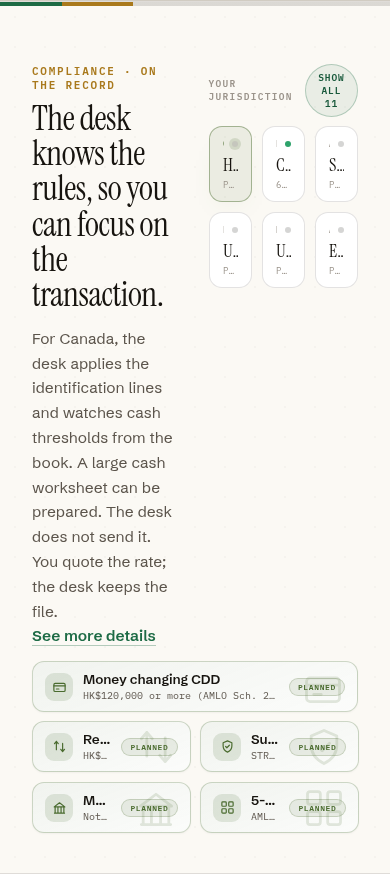
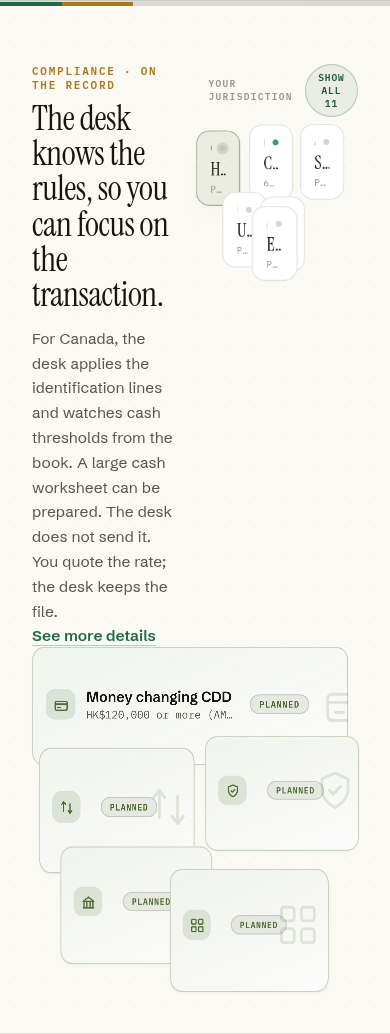
fix: state quote texting as conditional, and catch the missed claims
Home and FAQ now say a quote can be texted only when texting is set up.
The claims checker fails the old sentence and the four phrases the page
test already rejected. The phone worksheet line uses mute on the panel,
and a one-row jurisdiction pill keeps clear of the watermark.

diff --git a/web/index.html b/web/index.html
@@ -279,7 +279,7 @@
     <div style="text-align: center; max-width: 760px; margin: 0 auto;">
       <div style="font-family: var(--m); font-size: 11px; letter-spacing: 0.16em; text-transform: uppercase; color: var(--brass); font-weight: 600;">The website, powered by the desk</div>
       <h2 style="font-family: var(--serif); font-weight: 400; font-size: clamp(34px, 3.6vw, 52px); line-height: 1.04; letter-spacing: -0.015em; margin: 14px 0 0;">Your shop, open online.</h2>
-      <p style="font-size: 15.5px; line-height: 1.62; color: var(--mute); margin: 18px auto 0; max-width: 600px;">Your rate board lives on your own website, wired to the desk. Texting is not connected yet. People can find you online, check today's rates, reserve currency, and put money aside for pickup.</p>
+      <p style="font-size: 15.5px; line-height: 1.62; color: var(--mute); margin: 18px auto 0; max-width: 600px;">Your rate board lives on your own website, wired to the desk. A quote can be texted to the number given, only for that quote, when texting is set up. People can find you online, check today's rates, reserve currency, and put money aside for pickup.</p>
     </div>
 
     <div data-story-grid="true" style="display: grid; align-items: stretch; margin-top: clamp(18px,2.6vh,34px); grid-template-rows: var(--rowh, clamp(390px,46vh,462px)); grid-template-columns: var(--lcol, 1.08fr) var(--rcol, 0.92fr); gap: var(--sgap, 34px);">
@@ -404,7 +404,7 @@
                 </div>
               </sc-if>
               <sc-if value="{{ r.flat }}">
-                <div style="position: relative; height: 100%; display: flex; align-items: center; gap: 10px; padding: 9px 12px; box-sizing: border-box;">
+                <div style="{{ r.flatStyle }}">
                   <div aria-hidden="true" style="{{ r.wmStyle }}">{{ r.bigIcon }}</div>
                   <span style="{{ r.chipStyle }}">{{ r.icon }}</span>
                   <span style="flex: 1; min-width: 0;">
@@ -743,7 +743,7 @@ class Component extends DCLogic {
   featureDefs() {
     return [
       { icon:'board', slot:'gc-rate', src:'/web/photos/rate-board-storefront.jpg', ph:'Exchange shopfront at dusk with a lit rate board in the window', kicker:'SAMPLE FIGURE', value:'USD 1.3977', sub:'Sample rate on a sample board', chip:'Published', kind:'good', title:'Rate board', body:'Set your spread once. Your board prices every deal after that.' },
-      { icon:'chat', slot:'gc-sms', src:'/web/photos/sms-storefront.jpg', ph:'Customer reading a text on their phone outside an exchange shop, warm light', kicker:'BUSINESS TEXTING \u00B7 NOT CONNECTED', value:'Not sent', sub:'Texting is not connected yet', chip:'Not connected', kind:'good', title:'Business texting', body:'Texting is not connected yet. The desk does not send a message.' },
+      { icon:'chat', slot:'gc-sms', src:'/web/photos/sms-storefront.jpg', ph:'Customer reading a text on their phone outside an exchange shop, warm light', kicker:'QUOTE TEXT \u00B7 WHEN SET UP', value:'That quote', sub:'Only the number given', chip:'When set up', kind:'good', title:'Business texting', body:'A quote can be texted to the number given, only for that quote, when texting is set up. If texting is not set up, no message is sent.' },
       { icon:'till', slot:'gc-till', src:'/web/photos/till-float.jpg', ph:'Hands counting cash at the counter, warm light', kicker:'SAMPLE FIGURE', value:'$2,400.00', sub:'Sample ticket, USD to CAD', chip:'Float updated', kind:'good', title:'Till & float', body:'Close the day with the drawer already agreeing.' },
       { icon:'user', slot:'gc-kyc', src:'/web/photos/kyc-counter.jpg', ph:'Customer and teller at the counter, mid-conversation', kicker:'CLIENT \u00B7 ON FILE', value:'ID on file', sub:'Reused on next visit', chip:'On file', kind:'good', title:'Client files', body:'Take their details once. Verification is not connected. Every later visit can reuse the file.' },
       { icon:'shield', slot:'gc-comp', src:'/web/photos/compliance-institution.jpg', ph:'Institutional stone colonnade and bronze door', kicker:'FINTRAC \u00B7 LCTR', value:'$10,000', sub:'CAD cash threshold, not a shop total', chip:'Not sent', kind:'good', title:'Compliance', body:'The rules where you operate, carried as a pack. A large cash worksheet can be prepared. The desk does not send it.' },
@@ -757,7 +757,7 @@ class Component extends DCLogic {
   featureDetails() {
     return [
       { tag: 'PRICING', desc: 'Pull the interbank mid, add your margin per currency, and your board builds itself. Publish once and the number in your window, on your site and at the till are the same number.', points: ['Mid-market rates, refreshed regularly, your spread per currency', 'One tap publishes everywhere at once', 'Schedule a rate change before you open', 'Nobody quotes off a stale board again'] },
-      { tag: 'MESSAGING', desc: 'Texting is not connected yet. The desk does not send a message from the counter.', points: ['Texting is not connected', 'No shop number is wired in', 'Replies are not received here', 'Nothing is logged as a sent text'] },
+      { tag: 'MESSAGING', desc: 'A quote can be texted to the number given, only for that quote, when texting is set up. If texting is not set up, no message is sent.', points: ['Only that quote, and one confirmation', 'By text, or by WhatsApp when a WhatsApp sender is set', 'If texting is not set up, no message is sent', 'Replies are not received on the desk'] },
       { tag: 'CASH', desc: 'Every deal writes to the ledger the second it happens, so the drawer is right all day instead of at 6pm. Closing becomes a glance, not an hour with a calculator.', points: ['Each trade logged automatically', 'Live float per currency, per drawer', 'Low-float warning before you run dry', 'The day closes when the drawer agrees'] },
       { tag: 'CLIENTS', desc: 'Capture a client once and they are yours. The next visit reuses the file already on the desk.', points: ['Capture ID once, reuse every visit', 'Screening is not connected', 'No list is loaded', 'A document expiry reminder is not sent'] },
       { tag: 'REGULATORY', desc: 'The Canada pack watches cash thresholds on the book. The desk does not draft a regulator report on its own and does not send one.', points: ['Cash thresholds watched from the book', 'A large cash worksheet can be prepared', 'The desk does not send it', 'There is no one-click exam package'] },
@@ -772,7 +772,7 @@ class Component extends DCLogic {
   storyDefs() {
     return [
       { slot:'gc-web-1', src:'/web/assets/site-web-1.jpg', kicker:'01 \u00B7 THE WEBSITE', caption:'They find you online.', name:'Website', ph:'Comic-book editorial illustration (Adrian Tomine feel), a person at a kitchen table looking at a laptop / phone showing a small currency-exchange shop\u2019s website with a live rate board. Warm flat colour, clean ink linework, muted palette.' },
-      { slot:'gc-web-2', src:'/web/assets/site-web-2.jpg', kicker:'02 \u00B7 NOT CONNECTED', caption:'Texting is not connected.', name:'Not connected', ph:'Comic-book editorial panel, same series style, the same person on a city sidewalk glancing at a phone with a text bubble reading \u201CYour USD is ready for pickup.\u201D Warm flat colour, ink linework.' },
+      { slot:'gc-web-2', src:'/web/assets/site-web-2.jpg', kicker:'02 \u00B7 THE QUOTE', caption:'A quote, when texting is set up.', name:'The quote', ph:'Comic-book editorial panel, same series style, the same person on a city sidewalk glancing at a phone with a text bubble reading \u201CYour USD is ready for pickup.\u201D Warm flat colour, ink linework.' },
       { slot:'gc-web-3', src:'/web/assets/site-web-3.jpg', kicker:'03 \u00B7 THE VISIT', caption:'They walk in.', name:'The visit', ph:'Comic-book editorial panel, same series style, the person pushing open the glass door of the small exchange shop, teller visible behind the counter. Warm flat colour, ink linework.' },
       { slot:'gc-web-4', src:'/web/assets/site-web-4.jpg', kicker:'04 \u00B7 THE CODE', caption:'Shows the code.', name:'The code', ph:'Comic-book editorial panel, same series style, customer at the counter holding up their phone showing a pickup code / QR to a smiling teller. Warm flat colour, ink linework.' },
       { slot:'gc-web-5', src:'/web/assets/site-web-5.jpg', kicker:'05 \u00B7 THE DEAL', caption:'Everyone\u2019s a regular.', name:'The deal', ph:'Warm still illustration / photo-real editorial image, same warm palette, a busy, happy currency-exchange shop: a satisfied customer completing a deal at the counter, cash and envelope handed over, teller smiling, a small queue of friendly neighbourhood faces behind. Community, trust, momentum.' }
@@ -1320,7 +1320,7 @@ class Component extends DCLogic {
       publishTargets: ['Your website', 'Your window display', 'Your Google listing'],
       websiteFeatures: [
         { icon: this.ic('board', 16, '#1D6B45', 2), title: 'Rate board on your site', body: 'Your buy and sell rates, published from the desk.' },
-        { icon: this.ic('chat', 16, '#1D6B45', 2), title: 'Business texting', body: 'Texting is not connected yet. The desk does not message a customer.' },
+        { icon: this.ic('chat', 16, '#1D6B45', 2), title: 'Business texting', body: 'A quote can be texted to the number given, only for that quote, when texting is set up.' },
         { icon: this.ic('till', 16, '#1D6B45', 2), title: 'Reserve & set aside', body: 'Let people put currency aside for pickup.' }
       ],
       claimed: s.claimed, claimedPct: s.claimed + '%',
@@ -1382,9 +1382,10 @@ class Component extends DCLogic {
         return { slot: i, name: r.name, spec: r.spec, tag: r.tag, tall: tall, flat: !tall,
           icon: this.ic(ico, tall ? 17 : 15, acc, 1.9),
           bigIcon: this.ic(ico, tall ? 76 : 44, acc, 1.5),
-          wmStyle: 'position:absolute;top:50%;transform:translateY(-50%);right:' + (tall ? '14px' : '12px') + ';opacity:' + (tall ? '0.17' : '0.15') + ';color:currentColor;pointer-events:none;line-height:0;',
+          wmStyle: 'position:absolute;top:50%;transform:translateY(-50%);right:' + (tall ? '14px' : '8px') + ';opacity:' + (tall ? '0.17' : '0.15') + ';color:currentColor;pointer-events:none;line-height:0;z-index:0;',
+          flatStyle: 'position:relative;height:100%;display:flex;align-items:center;gap:10px;padding:9px 12px;padding-right:' + (tall ? '12' : '64') + 'px;box-sizing:border-box;',
           chipStyle: (tall ? 'width:34px;height:34px;' : 'width:28px;height:28px;') + 'border-radius:9px;display:grid;place-items:center;flex:none;background:' + this.hexA(acc, 0.14) + ';',
-          tagPill: 'font-family:var(--m);font-size:8px;letter-spacing:0.08em;text-transform:uppercase;font-weight:600;color:' + acc + ';background:' + this.hexA(acc, 0.1) + ';border:1px solid ' + this.hexA(acc, 0.22) + ';border-radius:999px;padding:3px 8px;flex:none;white-space:nowrap;',
+          tagPill: 'position:relative;z-index:1;font-family:var(--m);font-size:8px;letter-spacing:0.08em;text-transform:uppercase;font-weight:600;color:' + acc + ';background:' + this.hexA(acc, 0.1) + ';border:1px solid ' + this.hexA(acc, 0.22) + ';border-radius:999px;padding:3px 8px;flex:none;white-space:nowrap;',
           boxStyle: 'grid-column:span ' + sp[0] + ';grid-row:span ' + sp[1] + ';min-width:0;min-height:0;border-radius:12px;overflow:hidden;will-change:transform;background:linear-gradient(160deg,' + this.hexA(acc, 0.08) + ',' + this.hexA(acc, 0.02) + '),#FFFFFF;border:1px solid ' + this.hexA(acc, 0.26) + ';box-shadow:0 1px 2px rgba(23,20,15,0.04);' };
       }),
       jurLink: '/compliance#' + J.tag.toLowerCase().replace(/[^a-z0-9]+/g, '-'),

diff --git a/design/site/CurrencyDesk Site.dc.html b/design/site/CurrencyDesk Site.dc.html
@@ -268,7 +268,7 @@
     <div style="text-align: center; max-width: 760px; margin: 0 auto;">
       <div style="font-family: var(--m); font-size: 11px; letter-spacing: 0.16em; text-transform: uppercase; color: var(--brass); font-weight: 600;">The website, powered by the desk</div>
       <h2 style="font-family: var(--serif); font-weight: 400; font-size: clamp(34px, 3.6vw, 52px); line-height: 1.04; letter-spacing: -0.015em; margin: 14px 0 0;">Your shop, open online.</h2>
-      <p style="font-size: 15.5px; line-height: 1.62; color: var(--mute); margin: 18px auto 0; max-width: 600px;">Your rate board lives on your own website, wired to the desk. Texting is not connected yet. People can find you online, check today's rates, reserve currency, and put money aside for pickup.</p>
+      <p style="font-size: 15.5px; line-height: 1.62; color: var(--mute); margin: 18px auto 0; max-width: 600px;">Your rate board lives on your own website, wired to the desk. A quote can be texted to the number given, only for that quote, when texting is set up. People can find you online, check today's rates, reserve currency, and put money aside for pickup.</p>
     </div>
 
     <div data-story-grid="true" style="display: grid; align-items: stretch; margin-top: clamp(18px,2.6vh,34px); grid-template-rows: var(--rowh, clamp(390px,46vh,462px)); grid-template-columns: var(--lcol, 1.08fr) var(--rcol, 0.92fr); gap: var(--sgap, 34px);">
@@ -393,7 +393,7 @@
                 </div>
               </sc-if>
               <sc-if value="{{ r.flat }}">
-                <div style="position: relative; height: 100%; display: flex; align-items: center; gap: 10px; padding: 9px 12px; box-sizing: border-box;">
+                <div style="{{ r.flatStyle }}">
                   <div aria-hidden="true" style="{{ r.wmStyle }}">{{ r.bigIcon }}</div>
                   <span style="{{ r.chipStyle }}">{{ r.icon }}</span>
                   <span style="flex: 1; min-width: 0;">
@@ -732,7 +732,7 @@ class Component extends DCLogic {
   featureDefs() {
     return [
       { icon:'board', slot:'gc-rate', src:'../photos/rate-board-storefront.jpg', ph:'Exchange shopfront at dusk with a lit rate board in the window', kicker:'SAMPLE FIGURE', value:'USD 1.3977', sub:'Sample rate on a sample board', chip:'Published', kind:'good', title:'Rate board', body:'Set your spread once. Your board prices every deal after that.' },
-      { icon:'chat', slot:'gc-sms', src:'../photos/sms-storefront.jpg', ph:'Customer reading a text on their phone outside an exchange shop, warm light', kicker:'BUSINESS TEXTING \u00B7 NOT CONNECTED', value:'Not sent', sub:'Texting is not connected yet', chip:'Not connected', kind:'good', title:'Business texting', body:'Texting is not connected yet. The desk does not send a message.' },
+      { icon:'chat', slot:'gc-sms', src:'../photos/sms-storefront.jpg', ph:'Customer reading a text on their phone outside an exchange shop, warm light', kicker:'QUOTE TEXT \u00B7 WHEN SET UP', value:'That quote', sub:'Only the number given', chip:'When set up', kind:'good', title:'Business texting', body:'A quote can be texted to the number given, only for that quote, when texting is set up. If texting is not set up, no message is sent.' },
       { icon:'till', slot:'gc-till', src:'../photos/till-float.jpg', ph:'Hands counting cash at the counter, warm light', kicker:'SAMPLE FIGURE', value:'$2,400.00', sub:'Sample ticket, USD to CAD', chip:'Float updated', kind:'good', title:'Till & float', body:'Close the day with the drawer already agreeing.' },
       { icon:'user', slot:'gc-kyc', src:'../photos/kyc-counter.jpg', ph:'Customer and teller at the counter, mid-conversation', kicker:'CLIENT \u00B7 ON FILE', value:'ID on file', sub:'Reused on next visit', chip:'On file', kind:'good', title:'Client files', body:'Take their details once. Verification is not connected. Every later visit can reuse the file.' },
       { icon:'shield', slot:'gc-comp', src:'../photos/compliance-institution.jpg', ph:'Institutional stone colonnade and bronze door', kicker:'FINTRAC \u00B7 LCTR', value:'$10,000', sub:'CAD cash threshold, not a shop total', chip:'Not sent', kind:'good', title:'Compliance', body:'The rules where you operate, carried as a pack. A large cash worksheet can be prepared. The desk does not send it.' },
@@ -746,7 +746,7 @@ class Component extends DCLogic {
   featureDetails() {
     return [
       { tag: 'PRICING', desc: 'Pull the interbank mid, add your margin per currency, and your board builds itself. Publish once and the number in your window, on your site and at the till are the same number.', points: ['Mid-market rates, refreshed regularly, your spread per currency', 'One tap publishes everywhere at once', 'Schedule a rate change before you open', 'Nobody quotes off a stale board again'] },
-      { tag: 'MESSAGING', desc: 'Texting is not connected yet. The desk does not send a message from the counter.', points: ['Texting is not connected', 'No shop number is wired in', 'Replies are not received here', 'Nothing is logged as a sent text'] },
+      { tag: 'MESSAGING', desc: 'A quote can be texted to the number given, only for that quote, when texting is set up. If texting is not set up, no message is sent.', points: ['Only that quote, and one confirmation', 'By text, or by WhatsApp when a WhatsApp sender is set', 'If texting is not set up, no message is sent', 'Replies are not received on the desk'] },
       { tag: 'CASH', desc: 'Every deal writes to the ledger the second it happens, so the drawer is right all day instead of at 6pm. Closing becomes a glance, not an hour with a calculator.', points: ['Each trade logged automatically', 'Live float per currency, per drawer', 'Low-float warning before you run dry', 'The day closes when the drawer agrees'] },
       { tag: 'CLIENTS', desc: 'Capture a client once and they are yours. The next visit reuses the file already on the desk.', points: ['Capture ID once, reuse every visit', 'Screening is not connected', 'No list is loaded', 'A document expiry reminder is not sent'] },
       { tag: 'REGULATORY', desc: 'The Canada pack watches cash thresholds on the book. The desk does not draft a regulator report on its own and does not send one.', points: ['Cash thresholds watched from the book', 'A large cash worksheet can be prepared', 'The desk does not send it', 'There is no one-click exam package'] },
@@ -761,7 +761,7 @@ class Component extends DCLogic {
   storyDefs() {
     return [
       { slot:'gc-web-1', src:'../assets/site-web-1.jpg', kicker:'01 \u00B7 THE WEBSITE', caption:'They find you online.', name:'Website', ph:'Comic-book editorial illustration (Adrian Tomine feel), a person at a kitchen table looking at a laptop / phone showing a small currency-exchange shop\u2019s website with a live rate board. Warm flat colour, clean ink linework, muted palette.' },
-      { slot:'gc-web-2', src:'../assets/site-web-2.jpg', kicker:'02 \u00B7 NOT CONNECTED', caption:'Texting is not connected.', name:'Not connected', ph:'Comic-book editorial panel, same series style, the same person on a city sidewalk glancing at a phone with a text bubble reading \u201CYour USD is ready for pickup.\u201D Warm flat colour, ink linework.' },
+      { slot:'gc-web-2', src:'../assets/site-web-2.jpg', kicker:'02 \u00B7 THE QUOTE', caption:'A quote, when texting is set up.', name:'The quote', ph:'Comic-book editorial panel, same series style, the same person on a city sidewalk glancing at a phone with a text bubble reading \u201CYour USD is ready for pickup.\u201D Warm flat colour, ink linework.' },
       { slot:'gc-web-3', src:'../assets/site-web-3.jpg', kicker:'03 \u00B7 THE VISIT', caption:'They walk in.', name:'The visit', ph:'Comic-book editorial panel, same series style, the person pushing open the glass door of the small exchange shop, teller visible behind the counter. Warm flat colour, ink linework.' },
       { slot:'gc-web-4', src:'../assets/site-web-4.jpg', kicker:'04 \u00B7 THE CODE', caption:'Shows the code.', name:'The code', ph:'Comic-book editorial panel, same series style, customer at the counter holding up their phone showing a pickup code / QR to a smiling teller. Warm flat colour, ink linework.' },
       { slot:'gc-web-5', src:'../assets/site-web-5.jpg', kicker:'05 \u00B7 THE DEAL', caption:'Everyone\u2019s a regular.', name:'The deal', ph:'Warm still illustration / photo-real editorial image, same warm palette, a busy, happy currency-exchange shop: a satisfied customer completing a deal at the counter, cash and envelope handed over, teller smiling, a small queue of friendly neighbourhood faces behind. Community, trust, momentum.' }
@@ -1309,7 +1309,7 @@ class Component extends DCLogic {
       publishTargets: ['Your website', 'Your window display', 'Your Google listing'],
       websiteFeatures: [
         { icon: this.ic('board', 16, '#1D6B45', 2), title: 'Rate board on your site', body: 'Your buy and sell rates, published from the desk.' },
-        { icon: this.ic('chat', 16, '#1D6B45', 2), title: 'Business texting', body: 'Texting is not connected yet. The desk does not message a customer.' },
+        { icon: this.ic('chat', 16, '#1D6B45', 2), title: 'Business texting', body: 'A quote can be texted to the number given, only for that quote, when texting is set up.' },
         { icon: this.ic('till', 16, '#1D6B45', 2), title: 'Reserve & set aside', body: 'Let people put currency aside for pickup.' }
       ],
       claimed: s.claimed, claimedPct: s.claimed + '%',
@@ -1371,9 +1371,10 @@ class Component extends DCLogic {
         return { slot: i, name: r.name, spec: r.spec, tag: r.tag, tall: tall, flat: !tall,
           icon: this.ic(ico, tall ? 17 : 15, acc, 1.9),
           bigIcon: this.ic(ico, tall ? 76 : 44, acc, 1.5),
-          wmStyle: 'position:absolute;top:50%;transform:translateY(-50%);right:' + (tall ? '14px' : '12px') + ';opacity:' + (tall ? '0.17' : '0.15') + ';color:currentColor;pointer-events:none;line-height:0;',
+          wmStyle: 'position:absolute;top:50%;transform:translateY(-50%);right:' + (tall ? '14px' : '8px') + ';opacity:' + (tall ? '0.17' : '0.15') + ';color:currentColor;pointer-events:none;line-height:0;z-index:0;',
+          flatStyle: 'position:relative;height:100%;display:flex;align-items:center;gap:10px;padding:9px 12px;padding-right:' + (tall ? '12' : '64') + 'px;box-sizing:border-box;',
           chipStyle: (tall ? 'width:34px;height:34px;' : 'width:28px;height:28px;') + 'border-radius:9px;display:grid;place-items:center;flex:none;background:' + this.hexA(acc, 0.14) + ';',
-          tagPill: 'font-family:var(--m);font-size:8px;letter-spacing:0.08em;text-transform:uppercase;font-weight:600;color:' + acc + ';background:' + this.hexA(acc, 0.1) + ';border:1px solid ' + this.hexA(acc, 0.22) + ';border-radius:999px;padding:3px 8px;flex:none;white-space:nowrap;',
+          tagPill: 'position:relative;z-index:1;font-family:var(--m);font-size:8px;letter-spacing:0.08em;text-transform:uppercase;font-weight:600;color:' + acc + ';background:' + this.hexA(acc, 0.1) + ';border:1px solid ' + this.hexA(acc, 0.22) + ';border-radius:999px;padding:3px 8px;flex:none;white-space:nowrap;',
           boxStyle: 'grid-column:span ' + sp[0] + ';grid-row:span ' + sp[1] + ';min-width:0;min-height:0;border-radius:12px;overflow:hidden;will-change:transform;background:linear-gradient(160deg,' + this.hexA(acc, 0.08) + ',' + this.hexA(acc, 0.02) + '),#FFFFFF;border:1px solid ' + this.hexA(acc, 0.26) + ';box-shadow:0 1px 2px rgba(23,20,15,0.04);' };
       }),
       jurLink: 'CurrencyDesk Compliance.dc.html#' + J.tag.toLowerCase().replace(/[^a-z0-9]+/g, '-'),

diff --git a/design/site/CurrencyDesk FAQ.dc.html b/design/site/CurrencyDesk FAQ.dc.html
@@ -212,13 +212,13 @@ class Component extends DCLogic {
 
       { cat:'Getting found', q:'Do I need a website already?', a:'No. The desk publishes a rate page for you, and if you want a full site we build one, $3,500, free for founding members.' },
       { cat:'Getting found', q:'What does publishing my rates do for the shop?', a:'It makes you findable. People search before they walk, and the shop they can find is the shop they visit. A rate kept off the internet mostly hides the shop, not the margin.' },
-      { cat:'Getting found', q:'Can I text clients without giving out my number?', a:'No. Texting is not connected yet. The desk does not send a message, and replies do not land on the desk.' },
-      { cat:'Getting found', q:'What can I send clients?', a:'Nothing by text. Texting is not connected yet.' },
+      { cat:'Getting found', q:'Can I text clients without giving out my number?', a:'A visitor who asks for a quote on your public page can be texted that quote at the number they give, only for that quote, when texting is set up. Confirming the quote sends one more message the same way. If texting is not set up, no message is sent. Replies do not land on the desk.' },
+      { cat:'Getting found', q:'What can I send clients?', a:'A quote, to the number the visitor gives, only for that quote, when texting is set up. Confirming it sends one more message the same way. If texting is not set up, nothing is sent.' },
 
       { cat:'Early access', q:'What does early access actually mean?', a:'You are among the first hundred desks: founding pricing held for the life of the account, a direct line to the people building it, and real influence over what ships next. The software is in early access in Canada.' },
       { cat:'Early access', q:'How much am I committing to?', a:'Very little. Monthly is month to month, cancel when you like; annual is simply a discount for paying up front. There is no contract to break and no exit fee.' },
       { cat:'Early access', q:'Can I see it before I decide?', a:'Yes. Apply and we walk your desk through the real software on a call. No slides. If it is not right for your shop we will say so.' },
-      { cat:'Early access', q:'What do you want from founding members?', a:'Honesty about what is missing. What works on the desk today came from operators telling us what their day looks like: the rate board, till and float, the ledger, client files, cheque cashing, the vault, reports from the book, and the Canada compliance pack. Some things are not connected yet: business texting, client verification by an outside provider, and the AI copilot. Sanctions screening is not connected either. What comes next will be decided the same way.' }
+      { cat:'Early access', q:'What do you want from founding members?', a:'Honesty about what is missing. What works on the desk today came from operators telling us what their day looks like: the rate board, till and float, the ledger, client files, cheque cashing, the vault, reports from the book, and the Canada compliance pack. Some things are not connected yet: client verification by an outside provider, and the AI copilot. A quote can be texted to the number given, only for that quote, when texting is set up. If texting is not set up, no message is sent. Sanctions screening is not connected either. What comes next will be decided the same way.' }
     ];
   }
 

diff --git a/web/faq.html b/web/faq.html
@@ -223,13 +223,13 @@ class Component extends DCLogic {
 
       { cat:'Getting found', q:'Do I need a website already?', a:'No. The desk publishes a rate page for you, and if you want a full site we build one, $3,500, free for founding members.' },
       { cat:'Getting found', q:'What does publishing my rates do for the shop?', a:'It makes you findable. People search before they walk, and the shop they can find is the shop they visit. A rate kept off the internet mostly hides the shop, not the margin.' },
-      { cat:'Getting found', q:'Can I text clients without giving out my number?', a:'No. Texting is not connected yet. The desk does not send a message, and replies do not land on the desk.' },
-      { cat:'Getting found', q:'What can I send clients?', a:'Nothing by text. Texting is not connected yet.' },
+      { cat:'Getting found', q:'Can I text clients without giving out my number?', a:'A visitor who asks for a quote on your public page can be texted that quote at the number they give, only for that quote, when texting is set up. Confirming the quote sends one more message the same way. If texting is not set up, no message is sent. Replies do not land on the desk.' },
+      { cat:'Getting found', q:'What can I send clients?', a:'A quote, to the number the visitor gives, only for that quote, when texting is set up. Confirming it sends one more message the same way. If texting is not set up, nothing is sent.' },
 
       { cat:'Early access', q:'What does early access actually mean?', a:'You are among the first hundred desks: founding pricing held for the life of the account, a direct line to the people building it, and real influence over what ships next. The software is in early access in Canada.' },
       { cat:'Early access', q:'How much am I committing to?', a:'Very little. Monthly is month to month, cancel when you like; annual is simply a discount for paying up front. There is no contract to break and no exit fee.' },
       { cat:'Early access', q:'Can I see it before I decide?', a:'Yes. Apply and we walk your desk through the real software on a call. No slides. If it is not right for your shop we will say so.' },
-      { cat:'Early access', q:'What do you want from founding members?', a:'Honesty about what is missing. What works on the desk today came from operators telling us what their day looks like: the rate board, till and float, the ledger, client files, cheque cashing, the vault, reports from the book, and the Canada compliance pack. Some things are not connected yet: business texting, client verification by an outside provider, and the AI copilot. Sanctions screening is not connected either. What comes next will be decided the same way.' }
+      { cat:'Early access', q:'What do you want from founding members?', a:'Honesty about what is missing. What works on the desk today came from operators telling us what their day looks like: the rate board, till and float, the ledger, client files, cheque cashing, the vault, reports from the book, and the Canada compliance pack. Some things are not connected yet: client verification by an outside provider, and the AI copilot. A quote can be texted to the number given, only for that quote, when texting is set up. If texting is not set up, no message is sent. Sanctions screening is not connected either. What comes next will be decided the same way.' }
     ];
   }
 

diff --git a/server/tests/public-claims.test.ts b/server/tests/public-claims.test.ts
@@ -559,5 +559,41 @@ describe("public marketing claims", () => {
     expect(home).not.toContain("Clients & KYC");
     expect(legal).not.toContain("messages you send clients through the desk");
     expect(legal).not.toContain("support analytics and can be declined");
+    expect(home).toContain("A quote can be texted to the number given, only for that quote, when texting is set up.");
+    expect(home).not.toContain("Texting is not connected yet");
+    expect(faq).not.toContain("Texting is not connected yet");
+    expect(faq).toContain("If texting is not set up, no message is sent.");
   }, 20000);
+
+  it("flags the quote sentence and the four claims only the page test caught", () => {
+    const missed = [
+      "Texting is not connected yet. The desk does not send a message.",
+      "Texting is not connected, so the desk does not send messages to your clients.",
+      "The desk does not draft or send a suspicious transaction report.",
+      "A shared view across several locations is not built yet.",
+      "Not drafted or sent",
+    ];
+    expect(missed.filter((claim) => probe(claim).ok), "checker still allows these").toEqual([]);
+  });
+
+  it("keeps Worksheet only, you file it at 4.5 to 1 on the phone page", () => {
+    const html = readFileSync(path.join(path.resolve(import.meta.dirname, "../../web"), "mobile.html"), "utf8");
+    const token = html.match(/font-size: 10\.5px; color: var\(--([a-z]+)\)/)?.[1] ?? "";
+    const fg = html.match(new RegExp(`--${token}:\\s*(#[0-9A-Fa-f]{6})`))?.[1] ?? "";
+    const bg = html.match(/--panel:\s*(#[0-9A-Fa-f]{6})/)?.[1] ?? "";
+    const lum = (hex: string) => [0, 1, 2].reduce((sum, n) => {
+      const c = parseInt(hex.slice(1 + n * 2, 3 + n * 2), 16) / 255;
+      const lin = c <= 0.04045 ? c / 12.92 : ((c + 0.055) / 1.055) ** 2.4;
+      return sum + [0.2126, 0.7152, 0.0722][n]! * lin;
+    }, 0);
+    expect(fg && bg, `${token} ${fg} on ${bg}`).toBeTruthy();
+    expect((Math.max(lum(fg), lum(bg)) + 0.05) / (Math.min(lum(fg), lum(bg)) + 0.05)).toBeGreaterThanOrEqual(4.5);
+  });
+
+  it("keeps a one-row pill clear of the 44px watermark", () => {
+    const src = readFileSync(path.resolve(import.meta.dirname, "../../design/site/CurrencyDesk Site.dc.html"), "utf8");
+    const pad = Number(src.match(/padding-right:' \+ \(tall \? '12' : '(\d+)'\)/)?.[1]);
+    const icon = Number(src.match(/bigIcon: this\.ic\(ico, tall \? 76 : (\d+)/)?.[1]);
+    expect(pad, "flat row does not reserve a side for the watermark").toBeGreaterThanOrEqual(icon + 16);
+  });
 });

diff --git a/design/site/CurrencyDesk Mobile.dc.html b/design/site/CurrencyDesk Mobile.dc.html
@@ -159,7 +159,7 @@
         <div style="display: flex; align-items: center; gap: 12px; padding: 12px 17px; border-top: 1px solid var(--hair);">
           <span style="flex: 1; min-width: 0;">
             <span style="display: block; font-size: 14px; font-weight: 600;">{{ r.name }}</span>
-            <span style="display: block; font-family: var(--m); font-size: 10.5px; color: var(--faint); margin-top: 2px;">{{ r.spec }}</span>
+            <span style="display: block; font-family: var(--m); font-size: 10.5px; color: var(--mute); margin-top: 2px;">{{ r.spec }}</span>
           </span>
           <span style="flex: none; font-family: var(--m); font-size: 8.5px; letter-spacing: 0.1em; text-transform: uppercase; font-weight: 600; color: var(--mute); background: var(--soft); border: 1px solid var(--hair); border-radius: 999px; padding: 4px 9px;">{{ r.tag }}</span>
         </div>

diff --git a/web/mobile.html b/web/mobile.html
@@ -171,7 +171,7 @@
         <div style="display: flex; align-items: center; gap: 12px; padding: 12px 17px; border-top: 1px solid var(--hair);">
           <span style="flex: 1; min-width: 0;">
             <span style="display: block; font-size: 14px; font-weight: 600;">{{ r.name }}</span>
-            <span style="display: block; font-family: var(--m); font-size: 10.5px; color: var(--faint); margin-top: 2px;">{{ r.spec }}</span>
+            <span style="display: block; font-family: var(--m); font-size: 10.5px; color: var(--mute); margin-top: 2px;">{{ r.spec }}</span>
           </span>
           <span style="flex: none; font-family: var(--m); font-size: 8.5px; letter-spacing: 0.1em; text-transform: uppercase; font-weight: 600; color: var(--mute); background: var(--soft); border: 1px solid var(--hair); border-radius: 999px; padding: 4px 9px;">{{ r.tag }}</span>
         </div>

diff --git a/docs/PROJECT_STATE.md b/docs/PROJECT_STATE.md
@@ -957,8 +957,10 @@ obligation. The pages also name Cloudflare, Resend,
 Stripe, Twilio, Google, Tavily, and ElevenLabs. A storefront quote
 number is used only for that quote and its confirmation, and the
 pages say the desk does not send marketing to it. Admin changes are
-logged. Admin reads are not described as logged. Texting is not
-connected. Sanctions screening is not connected. The AI copilot
+logged. Admin reads are not described as logged. A quote can be
+texted to the number given, only for that quote, when texting is
+set up. If texting is not set up, no message is sent. Sanctions
+screening is not connected. The AI copilot
 is marked coming soon, not included yet, with a neutral chip,
 and it is not in the AI
 Bundle's list of live features. FAQ 40 does not offer a full
